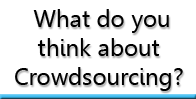
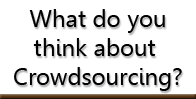
aaaaaaaaaaaah

Changed region(s): [[0.0, 0.6667, 1.0, 1.0], [0.1531, 0.0909, 0.8878, 0.3636], [0.1531, 0.3636, 0.8265, 0.6061]]

diff --git a/frank.html b/frank.html
@@ -81,7 +81,7 @@
       
       <h3>What Random People Think</h3>
 <hr>
-<img src="images/1.png"></img><img src="images/1.png"></img><img src="images/1.png"></img>
+<img src="images/1.png"></img><img src="images/2.png"></img><img src="images/3.png"></img>
 <!--<table style="width:100%">
   <tr>
     <th colspan="2">What are your thoughts on CrowdSourcing?</th>
